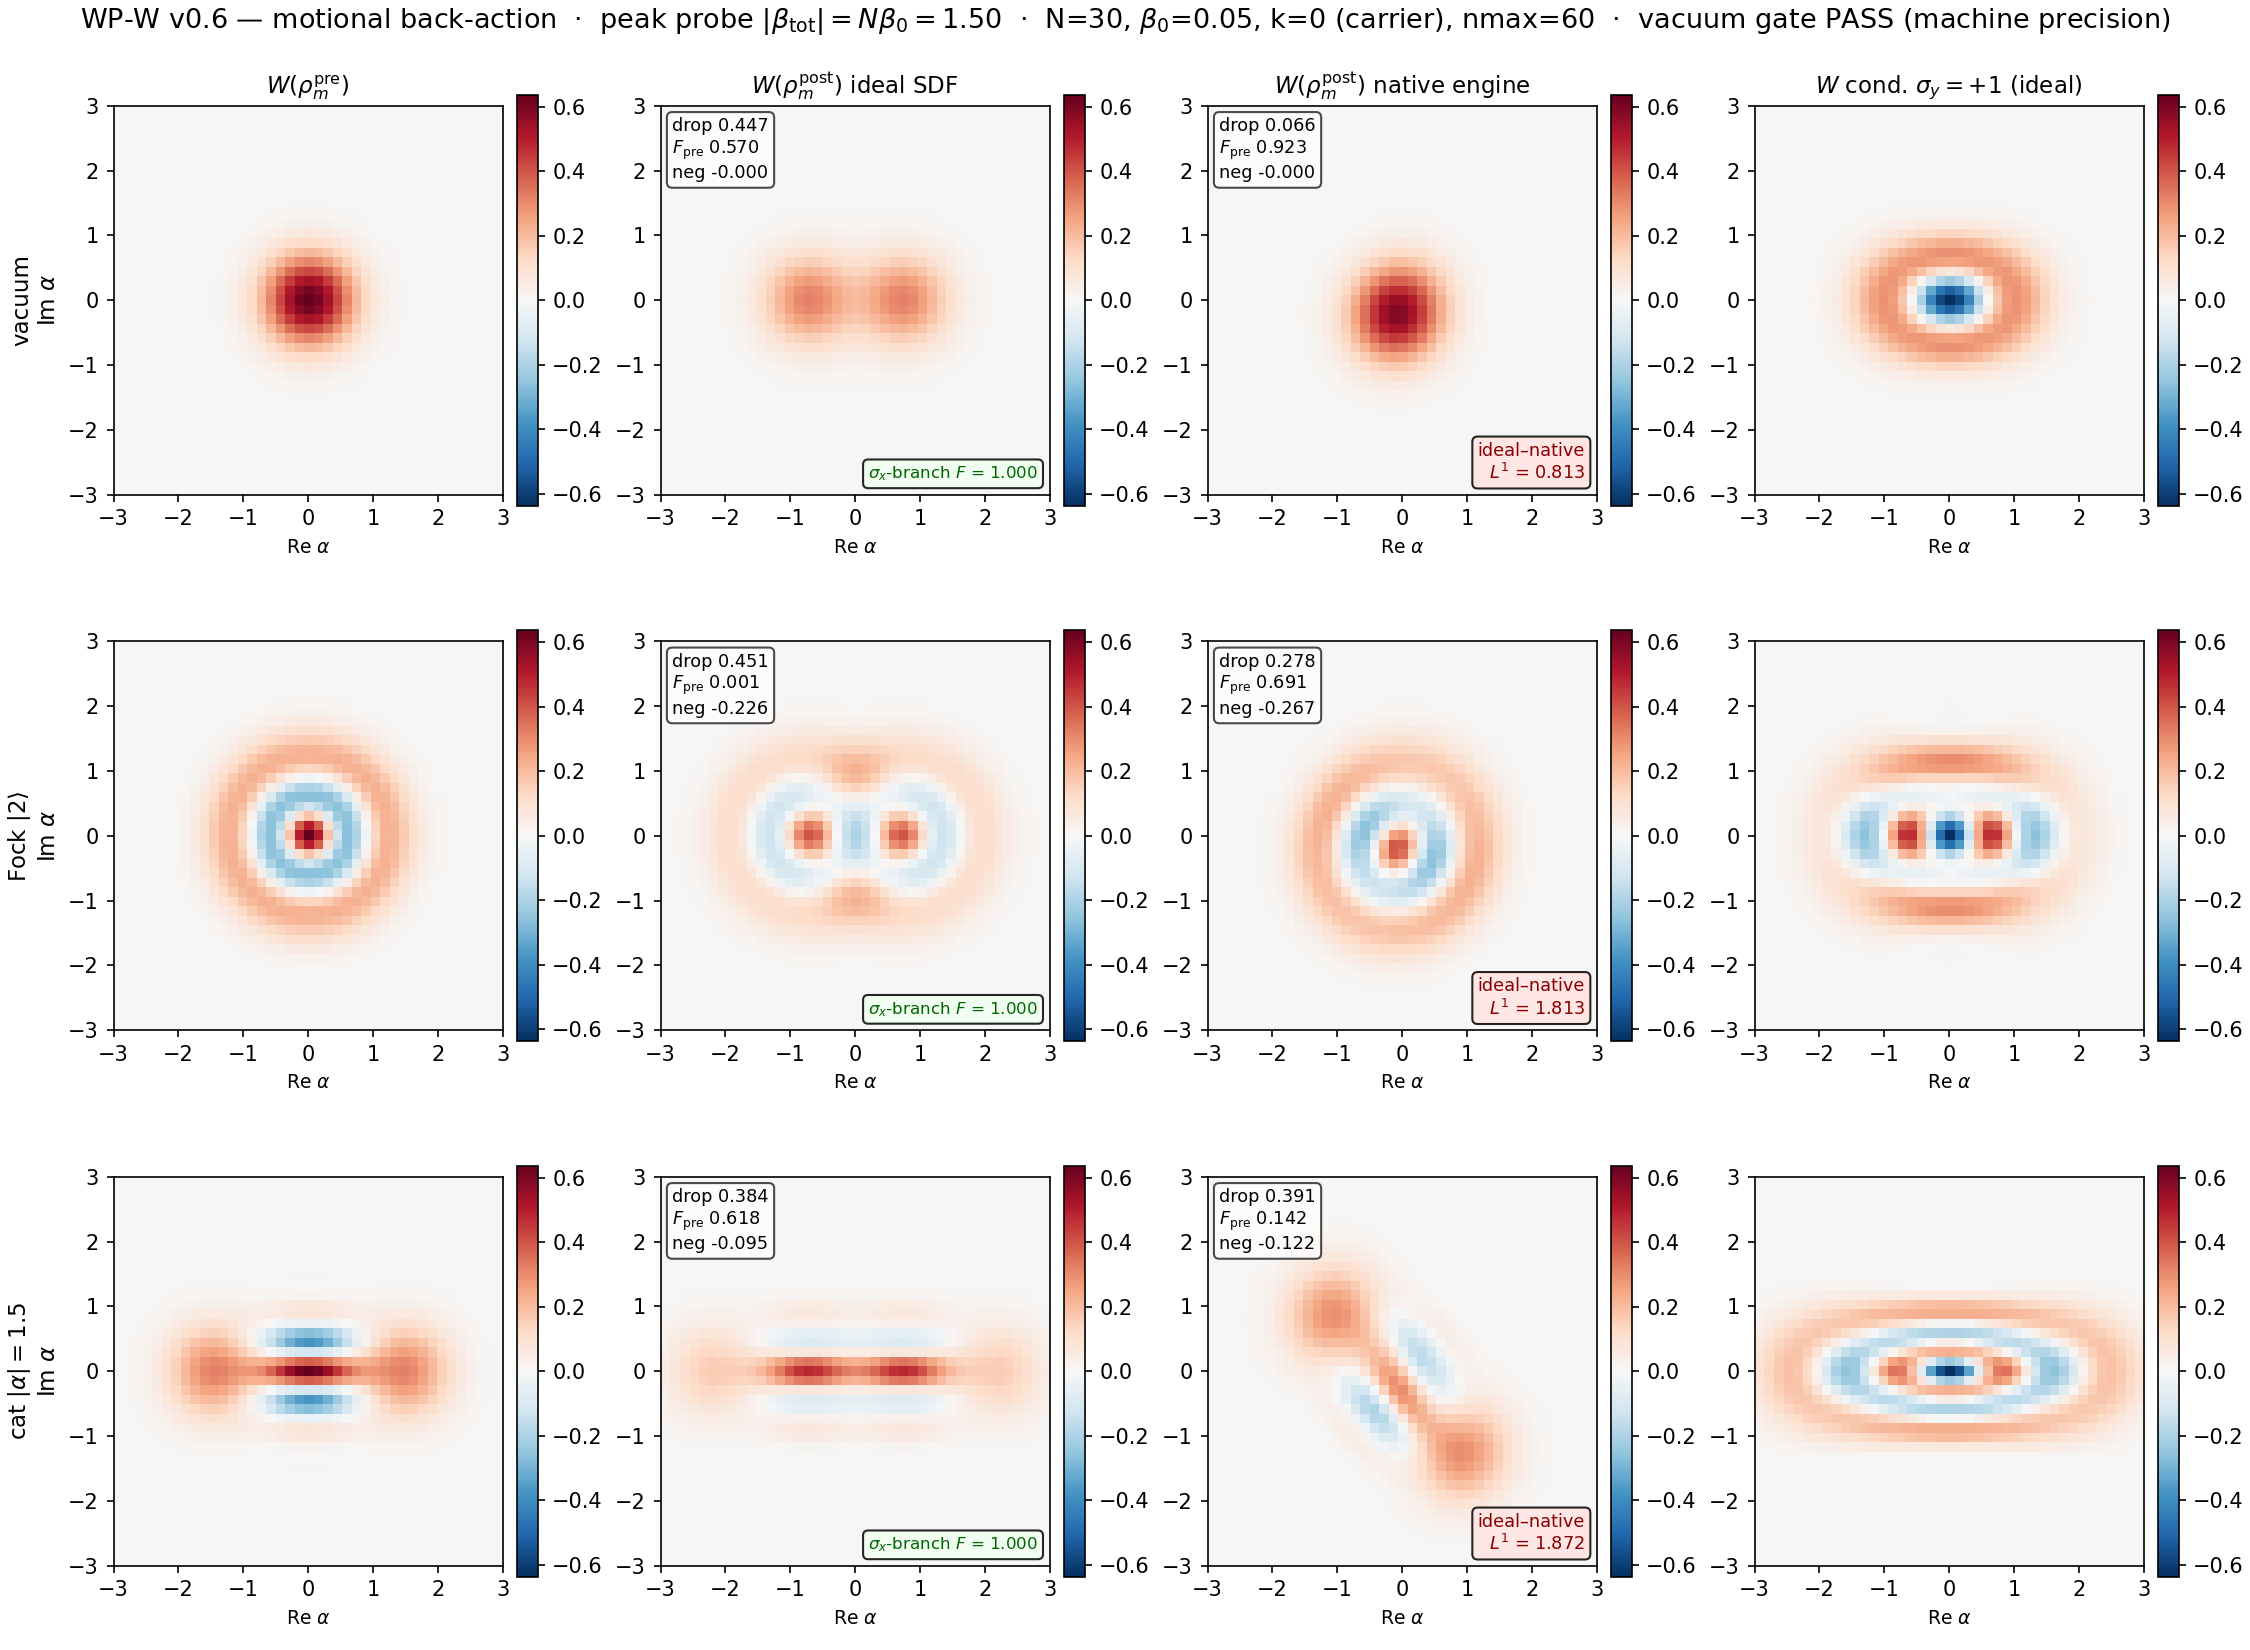
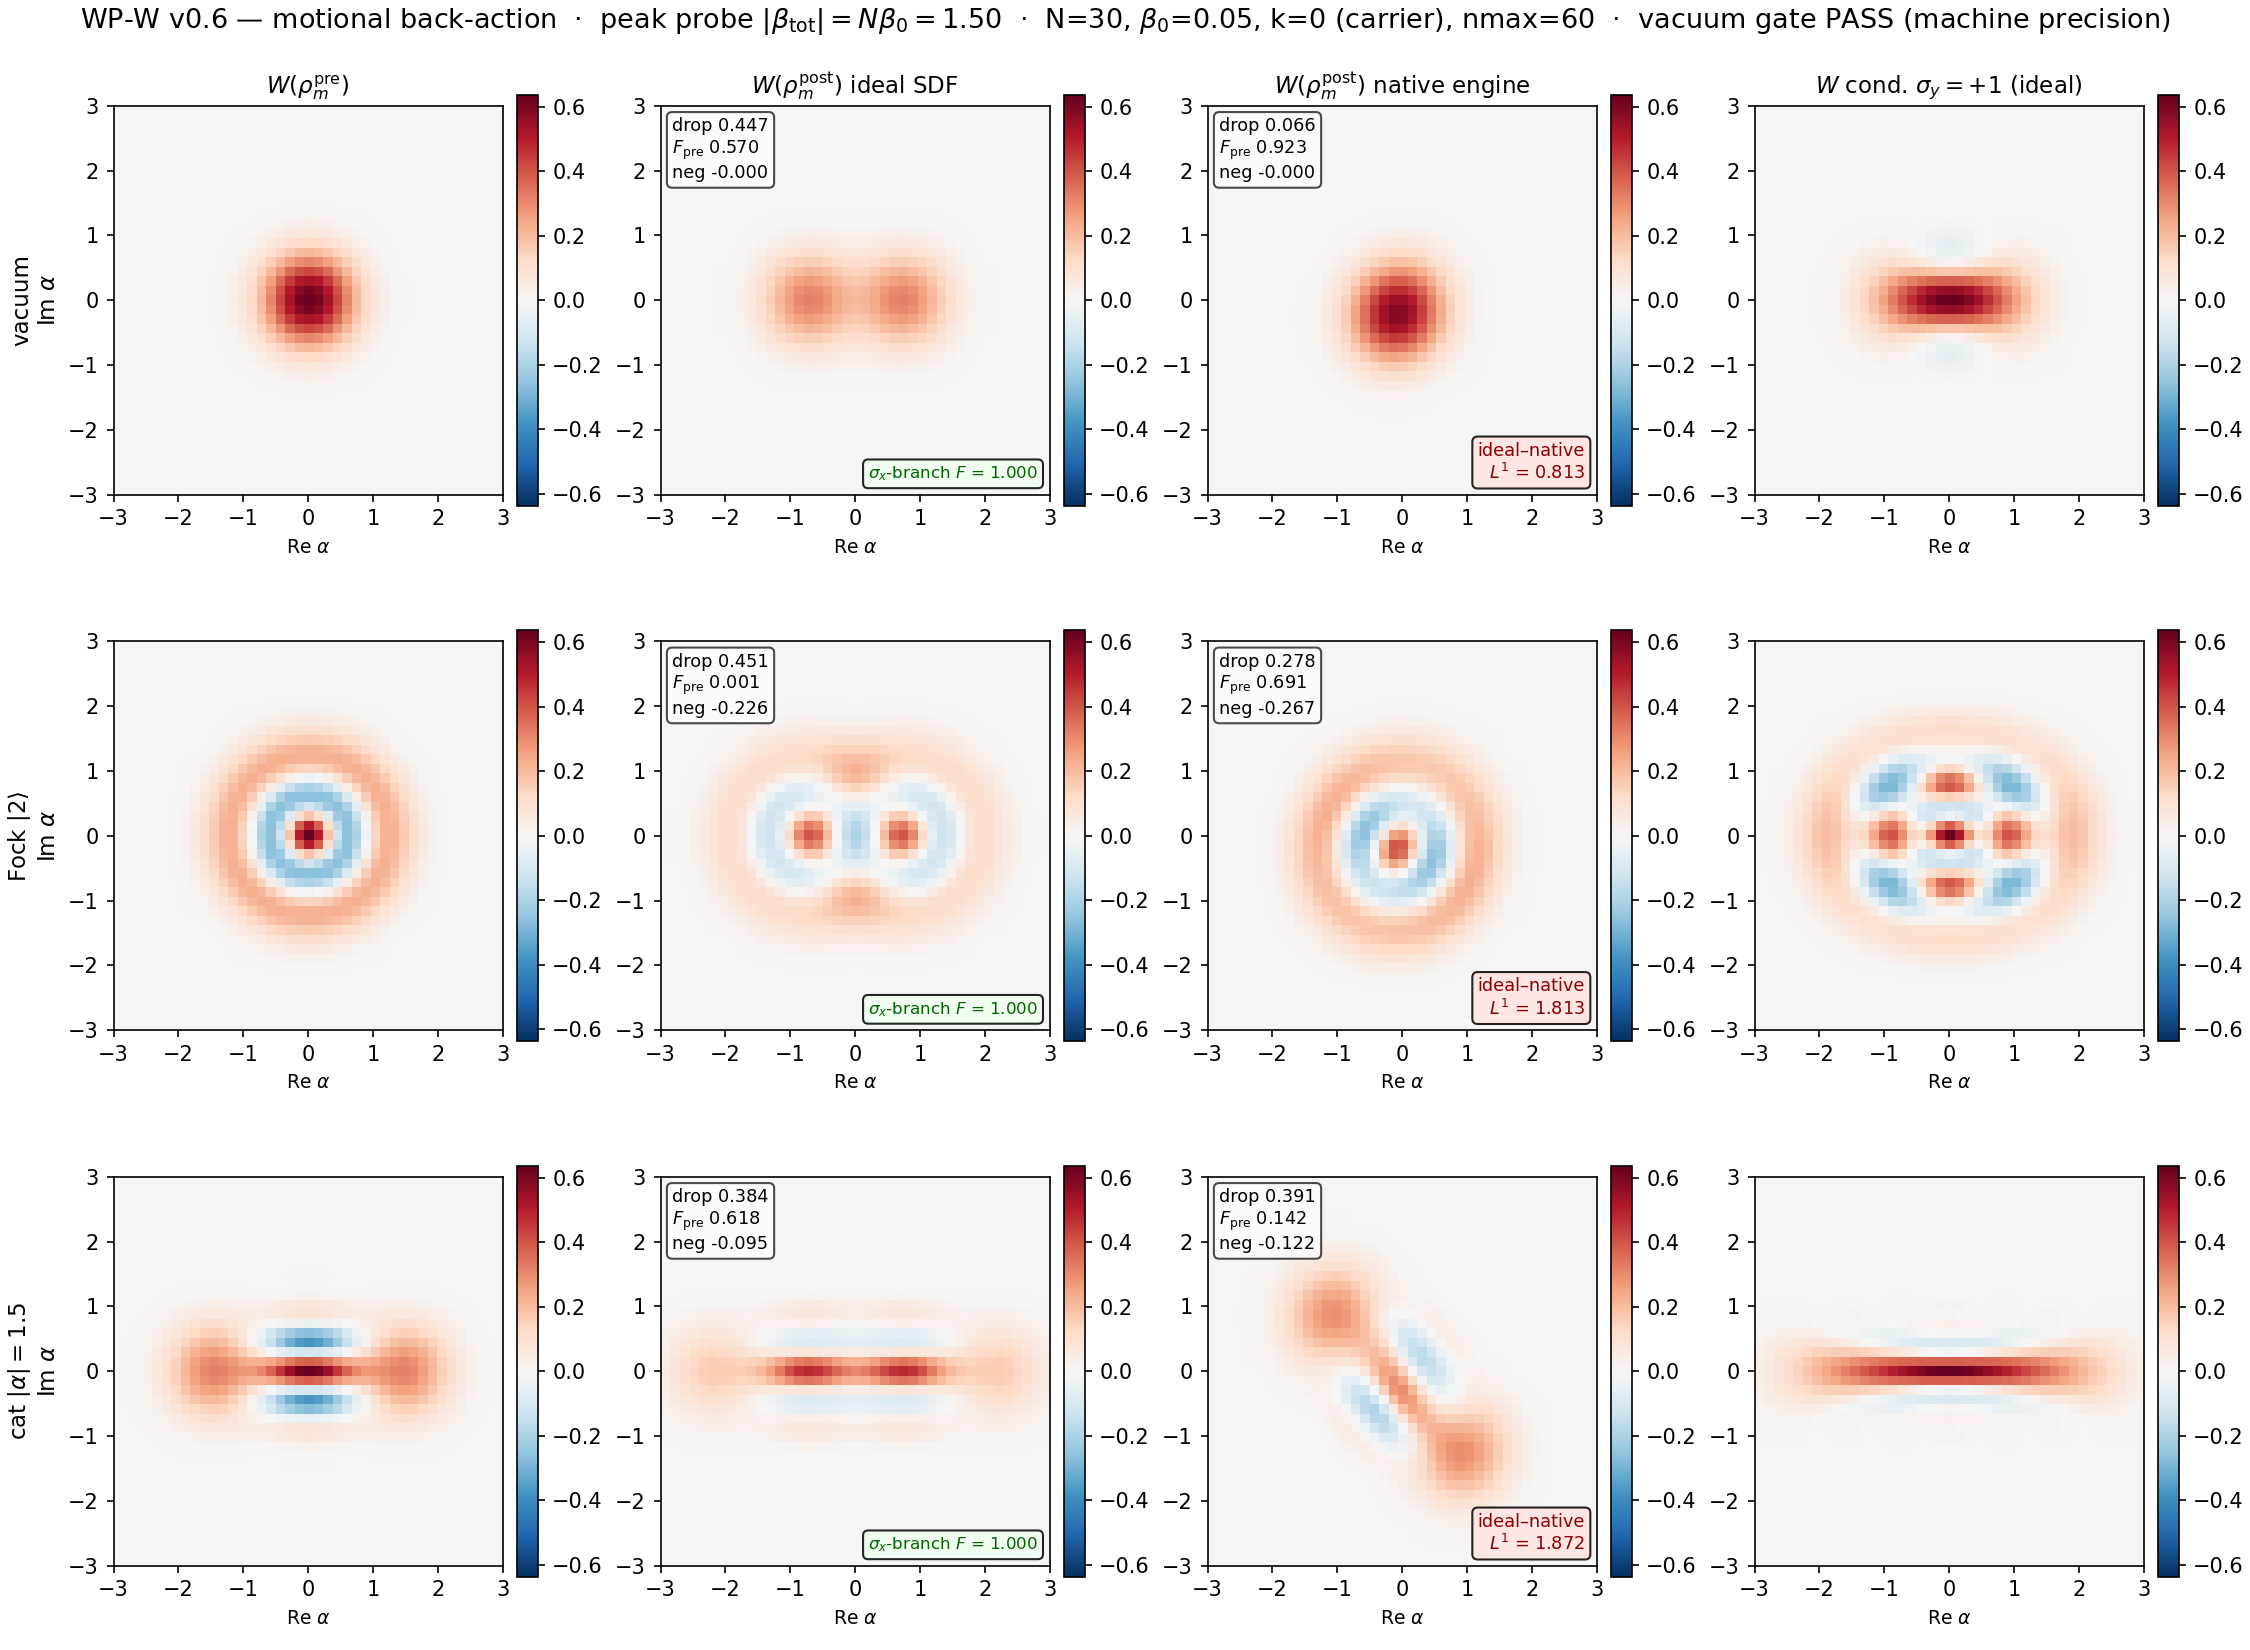
WP-W v0.6: post-run review corrections (σ_y sign, shift_deg docs, stale pointers)
Independent user audit of 1b90f92 found three issues; all fixed,
re-run, verified. Headline (vacuum gate, σ_x-branch fidelity,
ideal-vs-native L¹) is readout-independent and unchanged.

1. σ_y conditional outcome was sign-flipped. conditional_motional_ket
   y-branch used (down−i·up)/√2 = the σ_y=−1 projection under the
   engine convention (|+y⟩=(|↓⟩−i|↑⟩)/√2 = apply_mw_pi2(|↓⟩,0),
   σ_y=−2Im⟨d|u⟩, locked by test_ideal_sdf). Fixed to (down+i·up)/√2;
   added smoke lock 6 (engine |+y⟩ post-selects σ_y=+1 at prob 1).
   8/8 helper locks + 28 ideal-SDF tests pass (36 total). back_action.h5
   + figure regenerated with the correct σ_y=+1 conditional panel;
   gate still PASS at machine precision (unconditional, unaffected).

2. shift_deg docs overclaimed a cat shift. The code never applied an
   input-state shift; uniform no-shift lab frame is the *correct*
   matched-control convention (both legs must see the identical
   input — a cat-only shift would conflate input vs propagator
   difference). Doc-only: runner docstring/payload, scope §4a,
   logbook §1/§4.

3. Stale pointers refreshed: README v0.5→v0.6 (+back-action artefacts
   & deliverable row), scope-note status → locked+executed,
   WORK-PROGRAM §8 "Open v0.5 implementation item" → resolved/executed.

Run logbook §6 records the audit + corrections.

Changed region(s): [[0.7778, 0.7727, 0.9644, 0.8964], [0.7778, 0.4327, 0.9333, 0.5873], [0.8089, 0.1236, 0.9333, 0.2473]]

diff --git a/wp-wigner-tomography/numerics/test_back_action_helpers.py b/wp-wigner-tomography/numerics/test_back_action_helpers.py
@@ -190,6 +190,33 @@ def test_cat_ket_chi_and_wigner():
 
 
 # ---------------------------------------------------------------------------
+# Lock 6 — conditional_motional_ket σ_y matches the engine convention
+# ---------------------------------------------------------------------------
+
+def test_conditional_sigma_y_matches_engine_convention():
+    """`apply_mw_pi2(|↓⟩|0⟩, 0)` is the engine σ_y=+1 eigenstate
+    (σ_y = −2 Im⟨d|u⟩ = +1; cf. test_ideal_sdf). Post-selecting
+    σ_y=+1 must return prob 1 with ket ∝ |0⟩, and σ_y=−1 prob 0 —
+    the post-run review-pass sign fix."""
+    psi_m0 = states.fock_state(0, NMAX)
+    psi_py = states.apply_mw_pi2(
+        np.concatenate([psi_m0, np.zeros(NMAX, dtype=np.complex128)]),
+        mw_phase_deg=0.0, nmax=NMAX,
+    )
+    d, u = psi_py[:NMAX], psi_py[NMAX:]
+    assert abs(-2.0 * np.imag(np.vdot(d, u)) - 1.0) < 1e-12  # engine σ_y=+1
+    ket_p, p_p = conditional_motional_ket(psi_py, NMAX, "y", +1)
+    _, p_m = conditional_motional_ket(psi_py, NMAX, "y", -1)
+    assert abs(p_p - 1.0) < 1e-12
+    assert p_m < 1e-12
+    assert abs(abs(np.vdot(psi_m0, ket_p)) ** 2 - 1.0) < 1e-12  # ket_p ∝ |0⟩
+    # σ_x, σ_z are orthogonal to σ_y ⇒ 50/50
+    for b in ("x", "z"):
+        _, q = conditional_motional_ket(psi_py, NMAX, b, +1)
+        assert abs(q - 0.5) < 1e-12
+
+
+# ---------------------------------------------------------------------------
 
 def _main() -> int:
     fns = [v for k, v in sorted(globals().items()) if k.startswith("test_")]

diff --git a/wp-wigner-tomography/numerics/run_back_action.py b/wp-wigner-tomography/numerics/run_back_action.py
@@ -24,13 +24,19 @@ guardrail):
   * **Native-leg state prep**: spin |↓⟩ (NO separate MW π/2 — the
     train accumulates π/2 via the Ω_R calibration; D4 Layer A
     Corrections 4–5), motional input prepared directly in the lab
-    frame (θ=0). The WP-E v0.9.1 pulse-centering shift
-    shift_deg = ω_m·δt/2 is phase-symmetric for vacuum / Fock |2⟩
-    (no-op) and is applied to the coherent components of the cat
-    (cat axis on the real line, shift logged). This is a
-    *reported diagnostic*, not gated, so the second-order phase
-    convention does not affect the headline (the unconditional
-    ρ_m^(post) and its purity/negativity are readout-independent).
+    frame (θ=0). **No input-state phase shift is applied to any
+    input, on either leg** (uniform lab frame). The D4-Layer-A
+    `shift_deg = ω_m·δt/2` was a *pulse-centering compensation to
+    reproduce an external WP-E reference scan at a coherent state*;
+    this diagnostic has no external reference and is a *matched-
+    control structural comparison*, which requires both legs to see
+    the **identical** input in the same frame. shift_deg is
+    phase-symmetric for vacuum / Fock |2⟩ anyway (no-op); applying
+    it to the native cat *only* would rotate the cat relative to the
+    ideal cat and break matched control (conflating an input
+    difference with the propagator difference being measured). It is
+    therefore deliberately not applied — the cat axis is on the real
+    line for both legs.
   * **Probe points** (per state): peak |β_tot| = N·β₀ (x=0,
     on-resonance, max back-action) and mid-branch |β_tot| = N·β₀/2.
   * **Inputs**: vacuum, Fock |2⟩, cat |α|=1.5 (all pure; scope §3
@@ -372,7 +378,7 @@ def main() -> int:
             "native_leg": "D4-Layer-A pinned WP-E v0.9.1; matched physical control, not beta_eff (scope §4a, §7#3)",
             "native_eta": ETA, "native_omega_r": OMEGA_R,
             "native_delta_t": DELTA_T,
-            "native_state_prep": "spin |down>, no separate MW pi/2; shift_deg phase-symmetric for vacuum/Fock, logged for cat",
+            "native_state_prep": "spin |down>, no separate MW pi/2; NO input-state phase shift on either leg (uniform lab frame). shift_deg was a D4-Layer-A external-reference device, not applied here: phase-symmetric for vacuum/Fock, and deliberately not applied to the cat (a cat-only shift would break matched control by rotating the native cat vs the ideal cat).",
         },
         "physical_parameters": {"beta0": b0, "omega_m": wm, "N": N,
                                 "nmax": nmax,

diff --git a/wp-wigner-tomography/numerics/_common.py b/wp-wigner-tomography/numerics/_common.py
@@ -468,12 +468,19 @@ def conditional_motional_ket(psi: np.ndarray, nmax: int, basis: str,
     Spin eigenvectors / projected (unnormalised) motional components:
         z, +1 → up                z, −1 → down
         x, +1 → (down+up)/√2      x, −1 → (down−up)/√2
-        y, +1 → (down−i·up)/√2    y, −1 → (down+i·up)/√2
-    using |±x⟩=(|↓⟩±|↑⟩)/√2, |±y⟩=(|↓⟩±i|↑⟩)/√2.
+        y, +1 → (down+i·up)/√2    y, −1 → (down−i·up)/√2
+    using |±x⟩=(|↓⟩±|↑⟩)/√2 and the **engine σ_y convention**
+    |±y⟩=(|↓⟩∓i|↑⟩)/√2 — i.e. |+y⟩=(|↓⟩−i|↑⟩)/√2 is the σ_y=+1
+    eigenstate, identical to `states.apply_mw_pi2(|↓⟩,phase=0)` and
+    locked by `observables.compute` (σ_y = −2 Im⟨d|u⟩) and
+    `test_ideal_sdf._spin_expectations`. (The earlier draft used the
+    opposite σ_y sign, mislabelling the conditional outcome; fixed in
+    the post-run review pass and locked by smoke test 6.)
 
-    Returns (ket, prob) with ‖ket‖ = 1 and prob = ‖projected‖². The σ_x
-    convention is the one locked numerically by the back-action smoke
-    test (σ_x post-select of ideal-SDF |+y⟩|0⟩ → D(±β_tot/2)|0⟩).
+    Returns (ket, prob) with ‖ket‖ = 1 and prob = ‖projected‖². The
+    σ_x / σ_y conventions are locked numerically by the back-action
+    smoke tests (σ_x post-select of ideal-SDF |+y⟩|0⟩ → D(±β_tot/2)|0⟩;
+    σ_y=+1 post-select of the |+y⟩ equator state → prob 1).
     """
     down = psi[:nmax]
     up = psi[nmax:]
@@ -485,7 +492,7 @@ def conditional_motional_ket(psi: np.ndarray, nmax: int, basis: str,
     elif basis == "x":
         comp = (down + s * up) / np.sqrt(2.0)
     elif basis == "y":
-        comp = (down - 1j * s * up) / np.sqrt(2.0)
+        comp = (down + 1j * s * up) / np.sqrt(2.0)
     else:
         raise ValueError(f"basis must be 'x'|'y'|'z', got {basis!r}")
     prob = float(np.real(np.vdot(comp, comp)))

diff --git a/wp-wigner-tomography/logbook/2026-05-16-back-action-run.md b/wp-wigner-tomography/logbook/2026-05-16-back-action-run.md
@@ -51,11 +51,12 @@ recorded here explicitly:
   $(\delta{-}k\omega_m,\varphi_\text{train},N)$.
 - **Native state prep**: spin $|{\downarrow}\rangle$, **no separate
   MW π/2** (train accumulates π/2 via $\Omega_r$); motional input
-  lab-frame ($\theta{=}0$). WP-E v0.9.1 `shift_deg` is
-  phase-symmetric for vacuum/Fock (no-op) and logged for the cat.
-  Reported, not gated — the unconditional $\rho_m^{(\rm post)}$ is
-  readout-independent so this second-order phase convention does
-  not move the headline.
+  lab-frame ($\theta{=}0$). **No input-state phase shift on either
+  leg** (uniform lab frame; see §6 review-correction 2). The
+  D4-Layer-A `shift_deg` was an external-reference device, not
+  applicable to a matched-control structural comparison; it is
+  phase-symmetric for vacuum/Fock and deliberately not applied to
+  the cat (a cat-only shift would break matched control).
 - **Probe points**: peak $|\beta_\text{tot}|=N\beta_0=1.5$ (x=0);
   mid-branch $|\beta_\text{tot}|=N\beta_0/2=0.75$.
 - **Inputs**: vacuum, Fock $|2\rangle$, cat $|\alpha|{=}1.5$ (pure).
@@ -144,10 +145,12 @@ targeted.
    is quoted with its regime attached, never as a bare gate —
    same discipline as P0's finite-grid windowing and the D4
    centroid-vs-$\Delta\alpha$ note.
-3. **Native non-coherent state-prep `shift_deg`** is phase-symmetric
-   for vacuum/Fock; for the cat the axis is on the real line and the
-   shift is logged. Non-gated; does not affect the headline
-   unconditional state.
+3. **No input-state `shift_deg`** is applied on either leg (uniform
+   lab frame). Corrected in the post-run review (§6 item 2): the
+   code never applied a shift; the earlier text overclaimed a
+   cat shift. The uniform-no-shift convention is the *correct* one
+   for a matched-control comparison (both legs must see the
+   identical input). Non-gated; headline unaffected.
 
 ## 5. Next-step decision
 
@@ -161,3 +164,46 @@ collapse–revival back-action of §8; (b) the full §7#4 input set
 squeezed-vacuum (needs the $\mathcal O(\eta^2)$ analytic extension
 first, per the close-out logbook). No further action without a
 specific follow-up decision.
+
+## 6. Post-run review corrections (same day, after user audit)
+
+An independent user audit of commit `1b90f92` found three issues;
+all fixed in a follow-up review-correction commit. Numbers
+re-derived/re-run and confirmed.
+
+1. **σ_y conditional outcome was sign-flipped.**
+   `conditional_motional_ket(..., "y", +1)` used
+   $(\text{down}-i\,\text{up})/\sqrt2$, the σ_y$=-1$ projection in
+   the engine convention (where $|{+}y\rangle=(|{\downarrow}\rangle-i|{\uparrow}\rangle)/\sqrt2
+   =\texttt{apply\_mw\_pi2}(|{\downarrow}\rangle,0)$, σ_y$=-2\operatorname{Im}\langle d|u\rangle$).
+   Fixed to $(\text{down}+i\,\text{up})/\sqrt2$; new **smoke lock 6**
+   asserts the engine $|{+}y\rangle$ state post-selects σ_y$=+1$ at
+   prob 1 (8/8 tests pass). *Impact:* the stored
+   `cond_W_sy_plus` and the figure's 4th column were the *opposite*
+   σ_y outcome — relabelled/corrected by re-running. The
+   unconditional headline, the vacuum gate, and the σ_x-branch
+   fidelity (=1.0000) are readout-independent / σ_x-based and are
+   **unchanged**.
+
+2. **`shift_deg` documentation overclaimed a cat shift.** The code
+   never applied an input-state shift on any input; the runner
+   docstring / logbook / manifest text wrongly said it was applied
+   to the cat. Corrected to state the *uniform no-shift lab-frame*
+   convention — which is the **correct** one for a matched-control
+   structural comparison: both legs must see the identical input;
+   a cat-only shift would conflate an input difference with the
+   propagator difference being measured. shift_deg was a
+   D4-Layer-A *external-reference* device, not applicable here.
+   Doc-only (runner, scope §4a, this logbook §1/§4, manifest).
+
+3. **Stale pointer docs refreshed.** `README.md` (v0.5 → v0.6,
+   back-action artefacts + deliverable row), scope-note status line
+   ("proposed, pending lock" → locked + executed), WORK-PROGRAM §8
+   provisional-sketch bullet ("Open v0.5 implementation item" →
+   resolved/executed in v0.6).
+
+Post-correction: 8/8 smoke locks pass; runner re-run (vacuum gate
+still PASS at machine precision — readout-independent); figure
+regenerated with the correct σ_y$=+1$ conditional panel. The
+ideal-vs-native $L^1$ and all §3 unconditional numbers are
+unchanged (verified identical on re-run).

diff --git a/wp-wigner-tomography/notes/back_action_scope.md b/wp-wigner-tomography/notes/back_action_scope.md
@@ -2,11 +2,15 @@
 
 **WP-W · back-action scope · 2026-05-16**
 
-**Status.** *Scoping pass only — proposed, pending user lock.* No
-runner work until the five decisions below are locked. This note
-settles the WORK-PROGRAM §8 "open v0.5 items" and the
-[close-out logbook](../logbook/2026-05-16-wpw-closeout-and-followups.md)
-Rank 1 first step. It is the back-action analogue of
+**Status.** *LOCKED 2026-05-16 (user review + lock) and EXECUTED.*
+The decisions below were proposed in the scoping pass, corrected in a
+user review pass, locked, and then executed end-to-end — see the
+[scope logbook](../logbook/2026-05-16-back-action-scope.md) and the
+[run logbook](../logbook/2026-05-16-back-action-run.md) (commits
+`cb850a5` scope, `1b90f92` execution, + the post-run review-correction
+commit). This note settles the WORK-PROGRAM §8 "open v0.5 items" and
+the [close-out logbook](../logbook/2026-05-16-wpw-closeout-and-followups.md)
+Rank 1. It is the back-action analogue of
 [`analytic_chain.md`](./analytic_chain.md): a convention-locked,
 self-contained scope a future session can execute without re-deriving
 the landscape.
@@ -220,11 +224,18 @@ control, not matched $\beta_\text{tot}$**:
   the *same* $(\delta-k\omega_m,\varphi_\text{train},N)$ the
   inverse-Dirichlet rule assigns to each probe point: $N=30$,
   $\delta t=0.13\,T_m$, $\eta=0.397$, $\omega_m/2\pi=1.300$ MHz,
-  $\Omega_r=0.0902$, **no separate MW π/2**, motional-phase shift
-  $\texttt{shift\_deg}=\omega_m\delta t/2$ (WP-E v0.9.1; §7#7,
-  D4-bridge §2.1). Peak → on-resonance tooth $x=0$; mid-branch →
-  the $x$ solving $|\mathcal D_N(x)|=N\beta_0/2$ on the central
-  monotone branch.
+  $\Omega_r=0.0902$, **no separate MW π/2**. Peak → on-resonance
+  tooth $x=0$; mid-branch → the $x$ solving
+  $|\mathcal D_N(x)|=N\beta_0/2$ on the central monotone branch.
+  *(Execution clarification, post-run review:* the D4-Layer-A
+  $\texttt{shift\_deg}=\omega_m\delta t/2$ was a pulse-centering
+  device to reproduce an *external* WP-E reference scan at a
+  coherent state. This diagnostic has no external reference and is a
+  matched-control structural comparison, so **no input-state phase
+  shift is applied on either leg** — uniform lab frame, identical
+  input both legs. shift_deg is phase-symmetric for vacuum/Fock
+  anyway; a cat-only shift is deliberately *not* applied as it would
+  rotate the native cat vs the ideal cat and break matched control.)*
 - The **ideal-vs-native Wigner $L^1$ is then a *structural*
   back-action residual at matched physical drive** — "given the
   same drive program, how differently is the oscillator disturbed?"

diff --git a/wp-wigner-tomography/README.md b/wp-wigner-tomography/README.md
@@ -1,6 +1,6 @@
 # WP-W — Wigner-Like Reconstruction in the Lamb–Dicke / Idealised-Train Limit
 
-**Status:** v0.5 (2026-05-15). P0 + D2 + D3 + P1 + D4 cleared (ideal-SDF primitive in place; engine bridge demonstrated). v0.5 doc-correction pass applied: ideal SDF is FH20-style σ_x (not σ_z), direct χ = ⟨σ_y⟩ − i⟨σ_z⟩ readout (no Gaussian prefactor), §4 D4 native-engine convention (N=30, shift_deg = ω_m·δt/2, no separate MW π/2) — see [WORK-PROGRAM.md](./WORK-PROGRAM.md) §8 v0.5. D1 analytical note written ([`notes/analytic_chain.md`](./notes/analytic_chain.md)); all §4 deliverables now complete.
+**Status:** v0.6 (2026-05-16). P0 + D2 + D3 + P1 + D4 cleared (ideal-SDF primitive in place; engine bridge demonstrated); v0.5 doc-correction pass applied (ideal SDF is FH20-style σ_x not σ_z, direct χ = ⟨σ_y⟩ − i⟨σ_z⟩ readout, §4 D4 native convention). **v0.6: Rank-1 motional back-action diagnostic delivered** — `run_back_action.py` (vacuum analytic gate PASS at machine precision, the back-action analogue of P0/P1) + `plot_back_action.py`; ideal-vs-native structural Wigner L¹ as the third bridge residual. See [WORK-PROGRAM.md](./WORK-PROGRAM.md) §8, [`notes/back_action_scope.md`](./notes/back_action_scope.md), and the two 2026-05-16 back-action logbook entries. D1 analytical note ([`notes/analytic_chain.md`](./notes/analytic_chain.md)) standalone; all §4 deliverables complete.
 
 This is a pointer file. The full work-program document is
 [WORK-PROGRAM.md](./WORK-PROGRAM.md) (verified bibliography, design
@@ -11,10 +11,10 @@ decisions, deliverables, fidelity targets, conduct conventions).
 | Path | Contents |
 |---|---|
 | [`WORK-PROGRAM.md`](./WORK-PROGRAM.md) | The WP document. |
-| [`numerics/`](./numerics/) | Runner scripts (`run_reach_ladder.py`, `run_p0_preflight.py`, `run_reconstruction_demo.py`, `run_p1_preflight.py`, `run_bridge_native.py`, `run_bridge_inversion.py`) and their HDF5 + `wp_manifest_v1` outputs. |
-| [`plots/`](./plots/) | Plot scripts (`plot_reach_ladder.py`, `plot_p0_preflight.py`, `plot_reconstruction_demo.py`, `plot_bridge.py`) and their PNG outputs. |
+| [`numerics/`](./numerics/) | Runner scripts (`run_reach_ladder.py`, `run_p0_preflight.py`, `run_reconstruction_demo.py`, `run_p1_preflight.py`, `run_bridge_native.py`, `run_bridge_inversion.py`, **`run_back_action.py`** v0.6) + `_common.py` helpers + `test_back_action_helpers.py` (8 smoke locks) and their HDF5 + `wp_manifest_v1` outputs. |
+| [`plots/`](./plots/) | Plot scripts (`plot_reach_ladder.py`, `plot_p0_preflight.py`, `plot_reconstruction_demo.py`, `plot_bridge.py`, **`plot_back_action.py`** v0.6) and their PNG outputs. |
 | [`logbook/`](./logbook/) | Dated logbook entries with pre-registered expectations + comparison tables (per §5a discipline). |
-| [`notes/`](./notes/) | Analytical derivations ([`analytic_chain.md`](./notes/analytic_chain.md) — D1, standalone). |
+| [`notes/`](./notes/) | Analytical derivations: [`analytic_chain.md`](./notes/analytic_chain.md) (D1, standalone) and [`back_action_scope.md`](./notes/back_action_scope.md) (v0.6 back-action scope, locked + executed). |
 | [`refs/`](./refs/) | Per-paper extractions + contextual notes + lit-review tracker. |
 
 ## Quick start (execution)
@@ -27,10 +27,13 @@ python numerics/run_reconstruction_demo.py # D3 reconstruction on 7 states
 python numerics/run_p1_preflight.py        # P1 engine-bridge sentinel
 python numerics/run_bridge_native.py       # D4 Layer A — native vs WP-E
 python numerics/run_bridge_inversion.py    # D4 Layer B — engine χ FFT (~18 min)
+python numerics/test_back_action_helpers.py # v0.6 — 8 helper smoke locks
+python numerics/run_back_action.py         # v0.6 — back-action (vacuum gate + sweep, ~2 min)
 python plots/plot_reach_ladder.py
 python plots/plot_p0_preflight.py
 python plots/plot_reconstruction_demo.py
 python plots/plot_bridge.py                # D4 bridge figure
+python plots/plot_back_action.py           # v0.6 back-action figure
 ```
 
 Each runner writes an HDF5 artefact and a sidecar
@@ -44,6 +47,7 @@ Each runner writes an HDF5 artefact and a sidecar
 | D2 | reach ladder | ✅ runner + outputs + figure |
 | D3 | reconstruction demo | ✅ PASS — all six gated states clear §7#5; deciding-state criterion satisfied |
 | D4 | WP-E / WP-TOM bridge | ✅ Layer A PASS @ machine precision; Layer B substantive PASS (engine χ ↔ analytic χ at $3.75\times10^{-4}$ on 81² fine grid; centroid sub-pixel) |
-| D5 | logbook | live; entries [`2026-05-15-D2-and-P0.md`](./logbook/2026-05-15-D2-and-P0.md), [`2026-05-15-D3-reconstruction.md`](./logbook/2026-05-15-D3-reconstruction.md), [`2026-05-15-ideal-sdf-primitive.md`](./logbook/2026-05-15-ideal-sdf-primitive.md), [`2026-05-15-D4-bridge.md`](./logbook/2026-05-15-D4-bridge.md), [`2026-05-16-wpw-closeout-and-followups.md`](./logbook/2026-05-16-wpw-closeout-and-followups.md) (close-out + ranked follow-ups) |
+| D5 | logbook | live; D2/P0, D3, ideal-SDF, D4 (all 2026-05-15), close-out + ranked follow-ups, [`2026-05-16-back-action-scope.md`](./logbook/2026-05-16-back-action-scope.md) (v0.6 scope), [`2026-05-16-back-action-run.md`](./logbook/2026-05-16-back-action-run.md) (v0.6 execution + post-run review) |
 | P0 | analytic-grid gate | ✅ PASS (vacuum + coherent $|\alpha=1\rangle$) |
 | P1 | engine-bridge gate | ✅ PASS at $10^{-14}$ (vacuum + coherent $|\alpha=1\rangle$, N=20 and 80, FH20 σ_x SDF) |
+| v0.6 | back-action diagnostic | ✅ Rank-1 follow-up. Vacuum analytic gate **PASS at machine precision** (purity ½(1+e⁻\|β\|²) Δ≤2e-14, fidelity e⁻\|β\|²/4 Δ≤1.5e-14, W vs W_mixed_cat(β_tot/2) Δ≤1.3e-10 — the P0/P1 analogue); ideal σ_x-branch fidelity = 1.0000 vs native ≪1 (§7#3 structural bridge quantified); ideal-vs-native Wigner L¹ = third bridge residual |

diff --git a/wp-wigner-tomography/WORK-PROGRAM.md b/wp-wigner-tomography/WORK-PROGRAM.md
@@ -1467,7 +1467,9 @@ Outstanding non-blocking polish:
     §4), not via $\chi\to$FFT inversion — so the
     pipeline sidesteps v0.4's grid-resolution limits but raises its
     own implementation question on partial-trace and mixed-state
-    Wigner cost. Open v0.5 implementation item.
+    Wigner cost. *Resolved and executed in v0.6* (`run_back_action.py`
+    via the `_common.wigner_from_rho` / `partial_trace_spin` helpers;
+    see the v0.6 entry below and the run logbook).
 
   - **v0.6 back-action scope (LOCKED 2026-05-16; executed).** The
     open items below are settled in